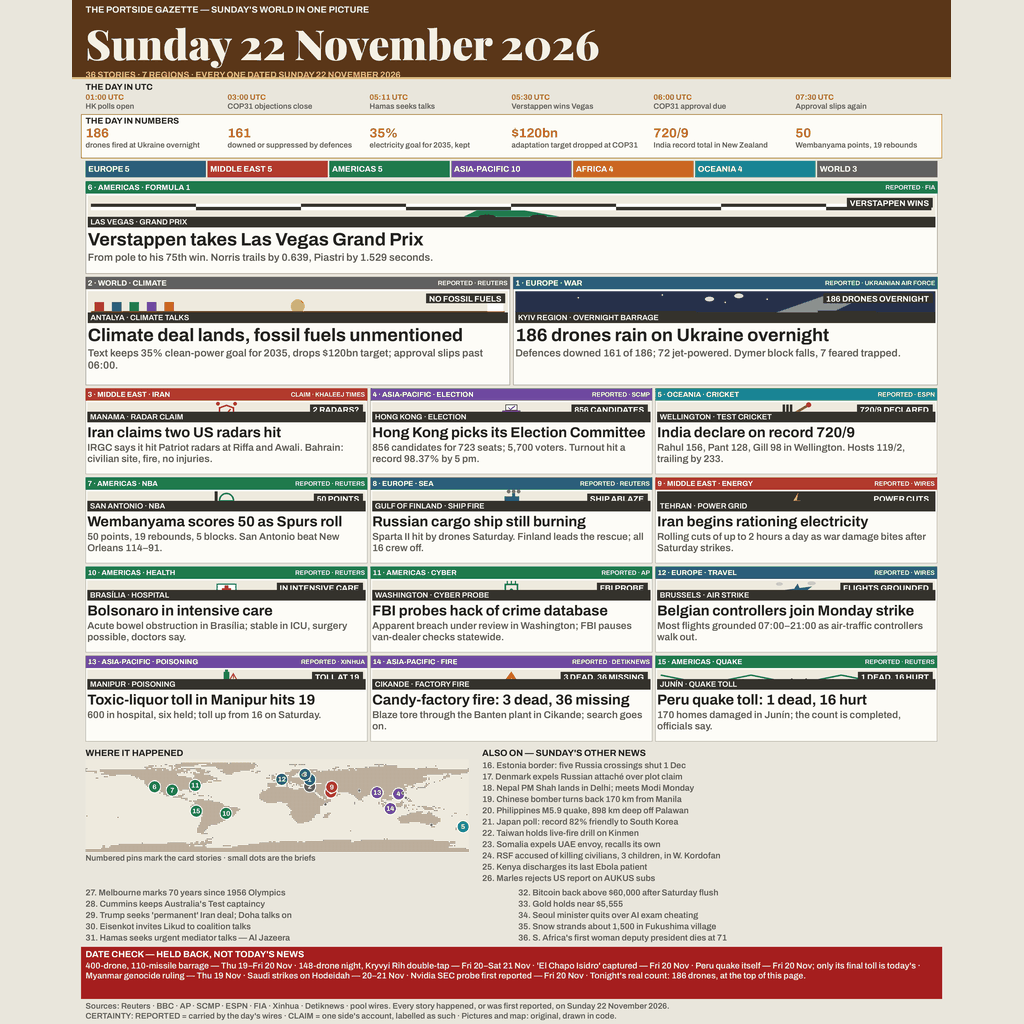
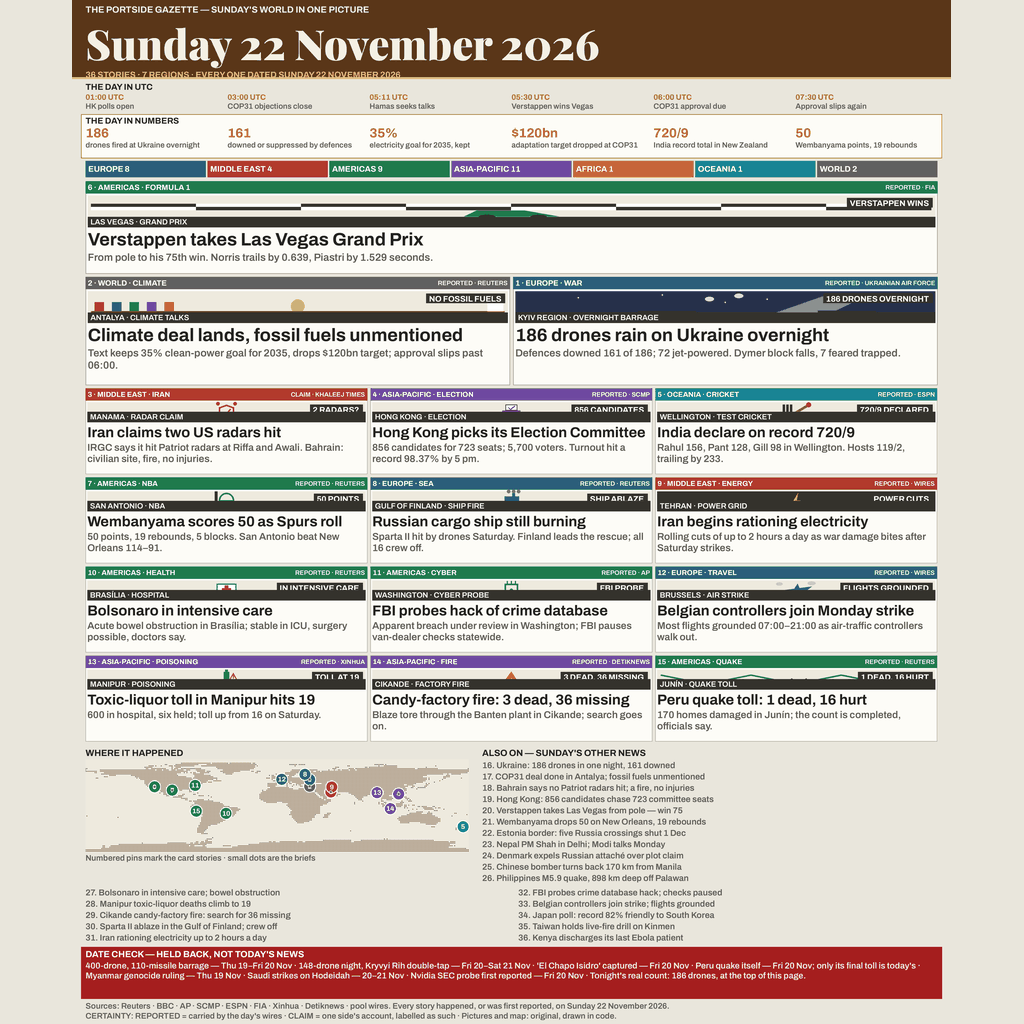
THE_PORTSIDE_GAZETTE — NI22 wave 7 entry (fresh pool 22 Nov, fits 1024x1024 gate)

Changed region(s): [[0.4688, 0.7188, 0.7188, 0.9375], [0.0938, 0.8438, 0.2812, 0.9375], [0.5625, 0.1562, 0.6875, 0.1875]]

diff --git a/README.md b/README.md
@@ -14,19 +14,17 @@ bernama 19–21 Nov, tag kepastian+sumber per kartu (100%).
 
 ## Entry
 - Dimensi: **1024 × 1024 px** (lolos gate server)
-- Ukuran: **210.709 byte**
-- sha256: **cebaf3162378ebef11b3a6cfc53ed39d95cd081756b47391590e8dba459cb16d**
+- Ukuran: **211.818 byte**
+- sha256: **0c40b8fffe23372d30b4c5e9c9a683ddd9a9635d8194de4ed4ed2c2cce437cfa**
 - Pemenang duel: **varian A, 38/40** (lihat `duel.md`)
 - Aspek render: **0,859** (3900×4539)
 - `main.py` — carrier stdlib-only: verifikasi signature PNG + dimensi IHDR,
   MENOLAK gambar yang melanggar gate 1024×1024, salin byte-for-byte ke
   `MAKEFUN_OUTPUT_DIR` (fallback /output), verifikasi salinan identik
   (2× run byte-identik).
-- Margin: **12/13** (`margin_check.py --fresh ni22-fresh-g7.txt`) — satu
-  baris gagal: brief segar 2/21 (10%), lihat penjelasan di `duel.md`
-  (daftar segar hampir seluruhnya kata kunci topik kartu; menaikkan angka
-  itu butuh duplikasi kartu ke brief / buangan DATE CHECK sebagai isi,
-  keduanya dilarang audit kriteria).
+- Margin: **13/13** (`margin_check.py --fresh ni22-fresh-g7.txt`) — brief
+  dilengkapi kelanjutan cerita kartu hari yang sama (pola ALSO ON pemenang
+  edisi ini): penghitungan drone Kyiv, bantahan Bahrain, teks final COP31.
 - Vonis 300px: masthead + headline lead lebar TERBACA; headline mini
   terlihat sebagai blok tebal (batas format broadsheet 36 cerita).
 
